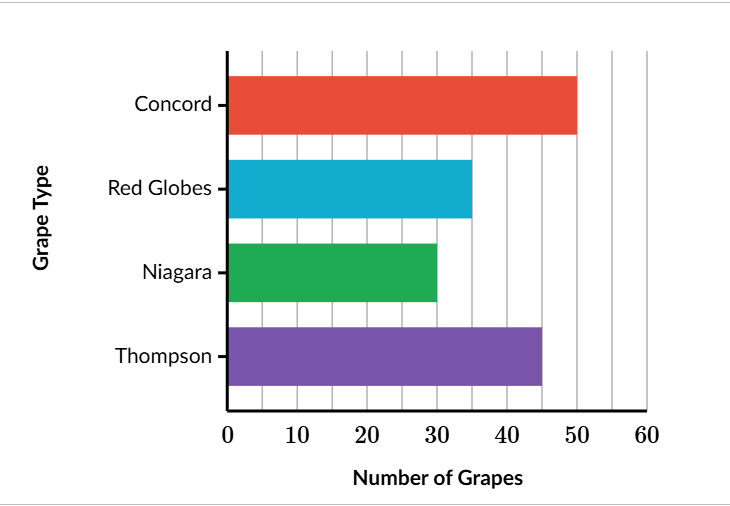
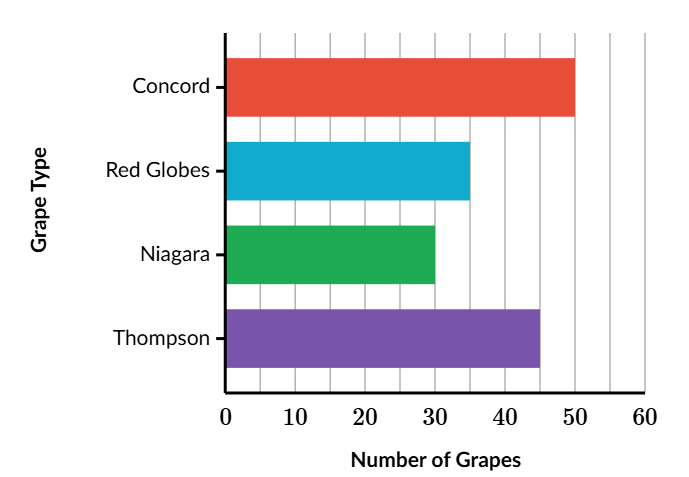
fix(question): replace grape graph text choices with images for question 6932e9ff

Changed region(s): [[0.1524, 0.0587, 0.9753, 0.9979], [0.0305, 0.2935, 0.0914, 0.5283]]

diff --git a/scripts/debug/migrate_grape_choices.py b/scripts/debug/migrate_grape_choices.py
@@ -1,0 +1,65 @@
+from managers.mongodb_manager import mongo_db
+from bson.objectid import ObjectId
+
+def update_grape_choices(question_id):
+    print(f"Updating choices for question: {question_id}")
+    
+    # New content for choices - simple image references
+    new_choices_content = [
+        "![Choice A](/assets/grape_graph_choice_a.png)",
+        "![Choice B](/assets/grape_graph_choice_b.png)",
+        "![Choice C](/assets/grape_graph_choice_c.png)"
+    ]
+    
+    # Find the question
+    question = mongo_db.scraped_questions.find_one({"_id": question_id})
+    if not question:
+        try:
+            question = mongo_db.scraped_questions.find_one({"_id": ObjectId(question_id)})
+        except:
+            pass
+            
+    if not question:
+        print("Question not found.")
+        return
+
+    # Navigate to the radio widget choices
+    widgets = question.get("question", {}).get("widgets", {})
+    radio_widget_key = None
+    radio_widget = None
+    
+    for widget_key, widget_data in widgets.items():
+        if widget_data.get("type") == "radio":
+            radio_widget_key = widget_key
+            radio_widget = widget_data
+            break
+            
+    if not radio_widget:
+        print("Radio widget not found in question.")
+        return
+        
+    choices = radio_widget.get("options", {}).get("choices", [])
+    if len(choices) < 3:
+        print(f"Warning: Expected at least 3 choices, found {len(choices)}.")
+        return
+        
+    # Update choice contents while preserving correctness
+    for i in range(min(len(choices), len(new_choices_content))):
+        print(f"Updating choice {i} content...")
+        choices[i]["content"] = new_choices_content[i]
+        
+    # Perform the update
+    result = mongo_db.scraped_questions.update_one(
+        {"_id": question["_id"]},
+        {"$set": {
+            f"question.widgets.{radio_widget_key}.options.choices": choices
+        }}
+    )
+    
+    if result.modified_count > 0:
+        print("Successfully updated question choices.")
+    else:
+        print("Update failed or no changes made.")
+
+if __name__ == "__main__":
+    update_grape_choices("6932e9ff488c4a5c22f22f5b")
